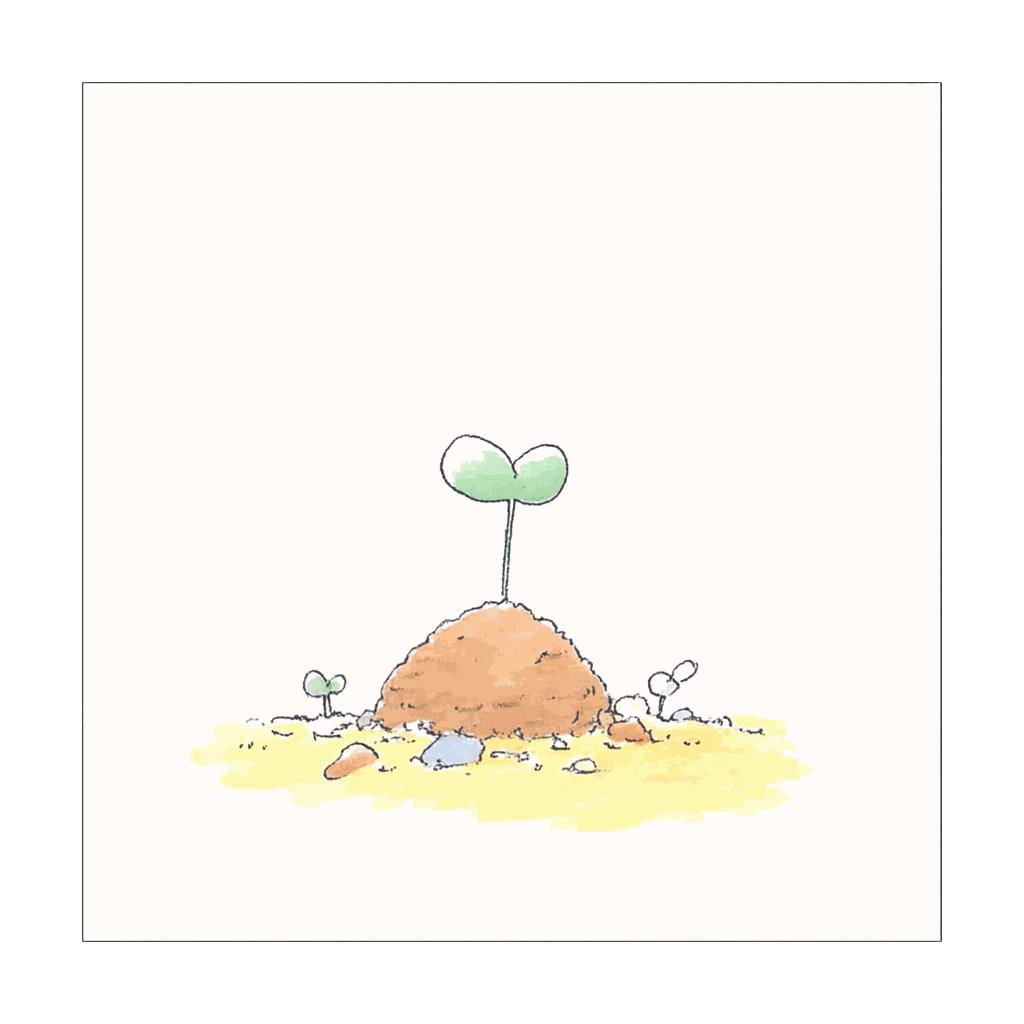
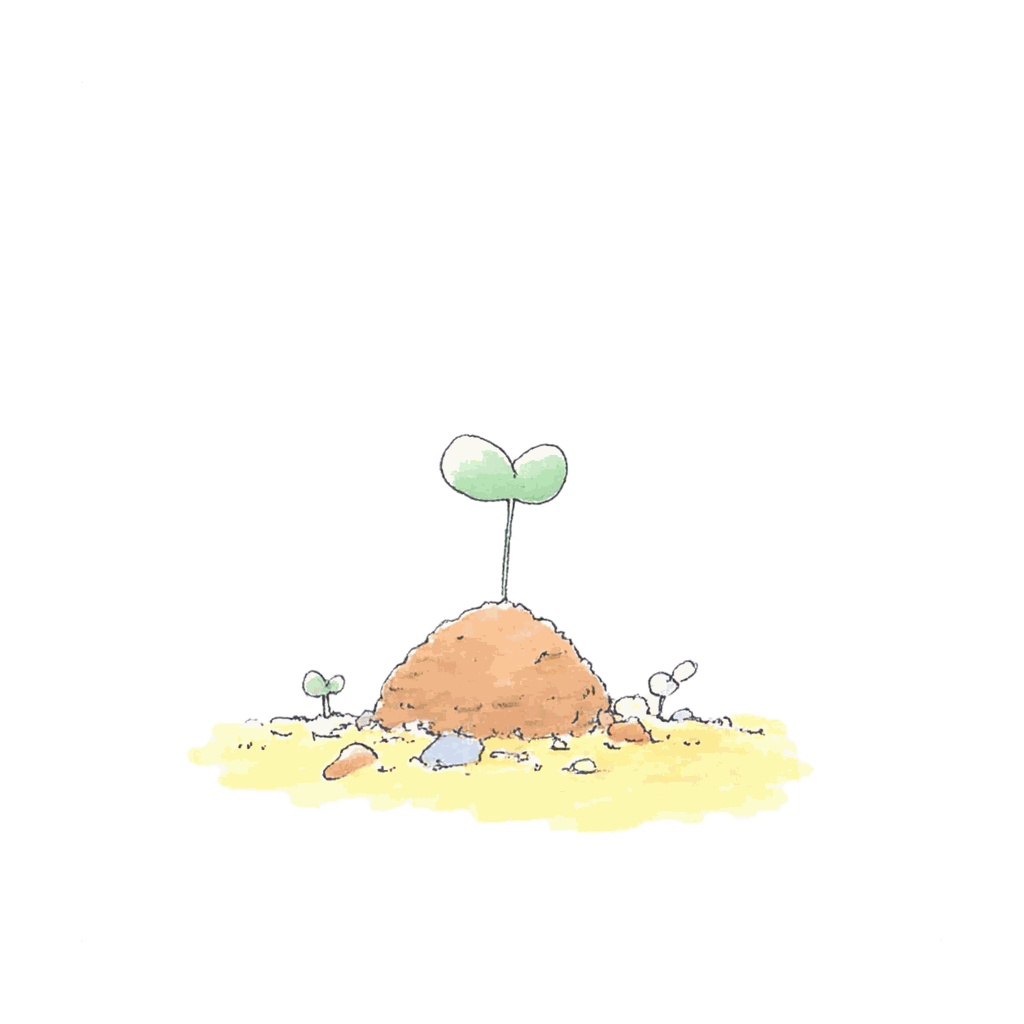
Peel a dark hairline frame off raw art before keying
`paper_mask` seeds the flood fill from the outermost ring of pixels, so a
raw image with a dark 1px frame yields no seed at all and nothing is keyed
out -- not a weak cut, a complete no-op. `live` shipped that way: the paper
sheet stayed fully opaque behind the illustration.

- `frame_depth` counts the outer rings that hold no paper pixel, and
  `key_out` crops them away (up to 8px) before keying. It reports 0 for the
  other 47 raws, so their output is untouched.
- `cutout.py` warns when the subject covers more than 65% of the output.
  With an 8% margin on each side the ceiling is 70.6%, so only a leftover
  paper rectangle can reach it. Background left behind was the one failure
  mode with no warning at all.
- Re-baked `live.png` from the original raw: opaque 70.2% -> 8.1%, with no
  opaque white pixels left. Checked on all three theme backgrounds.

diff --git a/scripts/illustration-cutout/keying.py b/scripts/illustration-cutout/keying.py
@@ -9,7 +9,9 @@ alpha 0、alpha matting を切っても 15)。
 内側の白は定義上ぜったいに背景にならない。おまけにモデルのダウンロードが要らず、
 完全に決定論的で、1枚あたり数十msで終わる。
 
-**この方式が前提にすること**: 被写体が紙より暗い輪郭線で閉じていること。線が途切れて
+**この方式が前提にすること**: (1) 画像の外周が紙であること。最外周に暗い額縁が
+あるとフラッドフィルの種が取れず1画素も抜けないので、先に剥がす(`frame_depth`)。
+(2) 被写体が紙より暗い輪郭線で閉じていること。線が途切れて
 いると、そこから紙の白が内側へ流れ込む(`MAX_HOLE_RATIO` で小さい流れ込みは埋め戻すが、
 大きく破れていると救えない)。
 
@@ -30,6 +32,10 @@ from scipy.ndimage import binary_closing, binary_erosion, generate_binary_struct
 WHITE_MARGIN = 5
 # 測った紙の値がここから外れたら生画像がおかしい。安全側に丸める
 WHITE_TOL_RANGE = (200, 253)
+# 生画像の最外周に、紙より暗い数pxの額縁が付いていることがある(書き出しや加工の副産物)。
+# 額縁があると「外周と地続きの白」の種が1つも取れず、紙が丸ごと残る。この厚みまでは
+# 剥がしてから抜く。仕上げで 8% のマージンを取り直すので、絵そのものは欠けない
+FRAME_MAX_DEPTH = 8
 # 淡い色面(薄い水色の空、水彩の草地)には白判定に届く粒が散る。背景がこの半径より
 # 細く入り込んだ筋は埋める。広い紙の余白は残るので、腕と胴の隙間までは埋まらない
 CLOSE_RADIUS = 6
@@ -78,6 +84,35 @@ def paper_mask(rgb: np.ndarray, tol: int | None = None) -> np.ndarray:
     if outer.size == 0:
         return np.zeros(white.shape, dtype=bool)
     return np.isin(labels, outer)
+
+
+def frame_depth(rgb: np.ndarray, tol: int | None = None, max_depth: int = FRAME_MAX_DEPTH) -> int:
+    """最外周に張り付いた暗い額縁の厚みを測る。
+
+    この方式は「画像の外周は紙」を前提にしている(モジュール冒頭)。前提が崩れると
+    `paper_mask` は空マスクを返し、抜きが甘いのではなく **1画素も抜けない**。
+    2026-09-06 実測: `live` の生画像は最外周1pxだけが暗く(min チャンネル中央値 21、
+    3px 内側は 249)、紙が丸ごと残ったまま焼き込まれていた。
+
+    白が1画素も無いリングはフラッドフィルの種になり得ないので、外から順に数えて剥がす。
+    紙が外周に届いている普通の生画像では 0 を返して何もしない。
+    """
+    if tol is None:
+        tol = white_tol(rgb)
+    v = rgb.min(axis=2)
+    h, w = v.shape
+    depth = 0
+    while depth < max_depth and 2 * depth + 1 < min(h, w):
+        rings = (
+            v[depth, depth : w - depth],
+            v[h - 1 - depth, depth : w - depth],
+            v[depth : h - depth, depth],
+            v[depth : h - depth, w - 1 - depth],
+        )
+        if any((ring >= tol).any() for ring in rings):
+            break
+        depth += 1
+    return depth
 
 
 def fill_leaks(subject: np.ndarray, max_hole: int) -> np.ndarray:
@@ -132,8 +167,17 @@ def key_out(
     edge_shrink: int = EDGE_SHRINK,
     feather: float = FEATHER,
 ) -> Image.Image:
-    """白背景を抜いた RGBA を返す。色は生画像のまま、alpha だけを作る。"""
+    """白背景を抜いた RGBA を返す。色は生画像のまま、alpha だけを作る。
+
+    額縁付きの生画像は先に額縁を落とすので、出力が入力より小さくなることがある
+    (`frame_depth`)。仕上げの `geometry.normalize` が alpha で trim して正方形に
+    詰め直すため、サイズが変わっても後段には影響しない。
+    """
     rgb = np.asarray(img.convert("RGB"))
+    depth = frame_depth(rgb)
+    if depth:
+        rgb = rgb[depth:-depth, depth:-depth]
+        img = img.crop((depth, depth, img.width - depth, img.height - depth))
     subject = subject_mask(rgb, tol, close_radius, min_object, max_hole_ratio)
     if edge_shrink > 0:
         # border_value=1 で「画像の外は被写体」と見なし、端に接した被写体を削らない

diff --git a/scripts/illustration-cutout/cutout.py b/scripts/illustration-cutout/cutout.py
@@ -33,6 +33,10 @@ MARGIN_RATIO = 0.08
 TRIM_ALPHA_THRESHOLD = 8
 # 被写体がこの割合を切ったら、抜きすぎ(ほぼ空のフレーム)を疑って警告する。
 MIN_SUBJECT_RATIO = 0.005
+# 逆に、被写体がこの割合を超えたら「紙が残っている」を疑って警告する。仕上げで四辺に
+# 8% のマージンを取るので、絵が画面いっぱいでも 0.706 が上限。それに迫る値は、
+# 抜けずに残った紙の矩形がそのまま被写体になったときにしか出ない
+MAX_SUBJECT_RATIO = 0.65
 # Midjourney からの持ち込みでありうる拡張子。先に見つかったものを使う
 RAW_SUFFIXES = (".png", ".jpg", ".jpeg", ".webp")
 
@@ -124,11 +128,15 @@ def main() -> int:
 
     done: list[tuple[Kanji, str, str]] = []
     thin: list[str] = []
+    solid: list[str] = []
     for kanji, raw in found:
         dest = args.out_root / f"{kanji.key}.png"
         cut = cut_out(raw)
-        if subject_ratio(cut) < MIN_SUBJECT_RATIO:
+        ratio = subject_ratio(cut)
+        if ratio < MIN_SUBJECT_RATIO:
             thin.append(kanji.key)
+        elif ratio > MAX_SUBJECT_RATIO:
+            solid.append(kanji.key)
         kb = save_png(normalize(cut), dest) / 1024
         done.append((kanji, raw.name, f"{kb:.0f}KB"))
 
@@ -137,6 +145,13 @@ def main() -> int:
         print(
             f"\n!! ほぼ全部抜けた: {', '.join(thin)}"
             "\n   生画像の背景が白でないか、被写体の輪郭が閉じていない可能性がある",
+            file=sys.stderr,
+        )
+    if solid:
+        print(
+            f"\n!! 紙が残っているかも: {', '.join(solid)}"
+            "\n   生画像の外周が紙になっているか確認する(額縁は自動で剥がすが、"
+            "厚い枠や白でない背景は剥がせない)",
             file=sys.stderr,
         )
     return 0

diff --git a/scripts/illustration-cutout/test_keying.py b/scripts/illustration-cutout/test_keying.py
@@ -9,7 +9,7 @@
 from __future__ import annotations
 
 import numpy as np
-from keying import key_out, paper_mask, paper_level, subject_mask, white_tol
+from keying import frame_depth, key_out, paper_mask, paper_level, subject_mask, white_tol
 from PIL import Image, ImageDraw
 
 WHITE = (255, 255, 255)
@@ -158,3 +158,41 @@ def test_fill_does_not_touch_background_that_reaches_the_edge():
 
     subject = subject_mask(np.asarray(img))
     assert not subject[350, 200], "外へ通じている隙間が埋まっている"
+
+
+def test_a_hairline_dark_frame_does_not_block_the_flood():
+    """最外周1pxが暗いだけで紙が丸ごと残っていた(`live` の生画像)。"""
+    img = _paper()
+    draw = ImageDraw.Draw(img)
+    draw.rectangle((50, 50, 150, 150), outline=INK, width=3)
+    draw.rectangle((0, 0, img.width - 1, img.height - 1), outline=INK, width=1)
+
+    a = _alpha(img)
+    assert a[10, 10] == 0, "額縁に阻まれて外周の紙が残っている"
+    assert a[100, 100] == 255, "枠の内側の白まで抜けている"
+
+
+def test_frame_depth_counts_only_rings_without_any_paper():
+    img = _paper()
+    ImageDraw.Draw(img).rectangle(
+        (0, 0, img.width - 1, img.height - 1), outline=INK, width=3
+    )
+
+    assert frame_depth(np.asarray(img)) == 3
+
+
+def test_frame_depth_is_zero_when_the_paper_reaches_the_edge():
+    img = _paper()
+    ImageDraw.Draw(img).rectangle((50, 50, 150, 150), fill=INK)
+
+    assert frame_depth(np.asarray(img)) == 0
+
+
+def test_a_thick_frame_is_not_peeled_away_forever():
+    """厚い枠は額縁ではなく絵。剥がし続けて画像を食い潰さない。"""
+    img = _paper()
+    ImageDraw.Draw(img).rectangle(
+        (0, 0, img.width - 1, img.height - 1), outline=INK, width=40
+    )
+
+    assert frame_depth(np.asarray(img)) == 8

diff --git a/scripts/illustration-cutout/README.md b/scripts/illustration-cutout/README.md
@@ -26,7 +26,11 @@ rembg は「白い領域＝背景」と判定するので、**被写体の中の
 白判定のしきい値は画像ごとに外周から測る。生画像によって紙の明るさに
 240〜255 の幅があり、固定値だとどちらかの絵で必ず破綻するため。
 
-**前提**: 被写体が紙より暗い輪郭線で閉じていること。線が途切れていると、そこから紙の白が
+**前提その1**: 画像の外周が紙であること。最外周の数pxに暗い額縁が付いていると、
+フラッドフィルの種が1つも取れず **1画素も抜けない**(抜きが甘いのではなく素通りする)。
+額縁は `frame_depth` が自動で剥がすが、剥がすのは 8px まで。
+
+**前提その2**: 被写体が紙より暗い輪郭線で閉じていること。線が途切れていると、そこから紙の白が
 内側へ流れ込む。小さい流れ込みは埋め戻す(`MAX_HOLE_RATIO`。実際 `mountain` の地面右端に
 19×17px の穴が空いていた)が、大きく破れている絵は救えない。
 
@@ -90,7 +94,7 @@ uv run --project scripts/illustration-cutout pytest scripts/illustration-cutout
 ```
 
 自動テストは `geometry.py` の純粋関数、`content.py` の `index.ts` 読み取り、
-`keying.py` の抜き(輪郭線の内側の白が残る・外周の白が抜ける・淡い色面の粒が埋まる・
+`keying.py` の抜き(輪郭線の内側の白が残る・外周の白が抜ける・最外周の額縁を剥がす・淡い色面の粒が埋まる・
 画像端に接した被写体が削れない・紙の明るさに追従する・線の途切れからの流れ込みを埋め戻す)、そして `normalize → save_png` を通した保存後の形
 (1024正方形・中心 ±2%・四辺マージン 6% 以上・再実行でバイト一致)。
 最終的な絵の善し悪しはシミュレータで3テーマ背景に載せて目視で判断する。
@@ -101,8 +105,11 @@ uv run --project scripts/illustration-cutout pytest scripts/illustration-cutout
 
 - **淡い色面が斑に抜ける**(草地や空に穴が空く) … `CLOSE_RADIUS` を上げる。
   ただし上げすぎると腕と胴の隙間のような**細い背景も埋まって白く残る**
-- **背景が広く残る** … 紙が白くない生画像。`WHITE_MARGIN` を上げると紙判定が緩む。
-  実行時に `!! ほぼ全部抜けた` ではなく背景が残るケースは自動検知していないので目視で
+- **背景が広く残る** … まず `!! 紙が残っているかも` が出ていないか見る(被写体が
+  8割方を占めたら出る。紙の矩形が丸ごと残ったときにしか届かない値)。
+  よくある原因は最外周の暗い額縁で、8px を超える厚みだと剥がせない —— 生画像側で
+  枠を落とす。額縁でなければ紙が白くない生画像なので `WHITE_MARGIN` を上げる。
+  部分的に残るケースは自動検知していないので目視で
 - **被写体の内側に穴が空く** … 輪郭線の途切れから紙が流れ込んでいる。`MAX_HOLE_RATIO` を
   上げると大きい流れ込みまで埋まるが、上げすぎると**意図した抜けも埋まる**
 - **背景に黒い点が散る** … 紙粒テクスチャの濃い粒。`MIN_OBJECT` を上げて捨てる。
